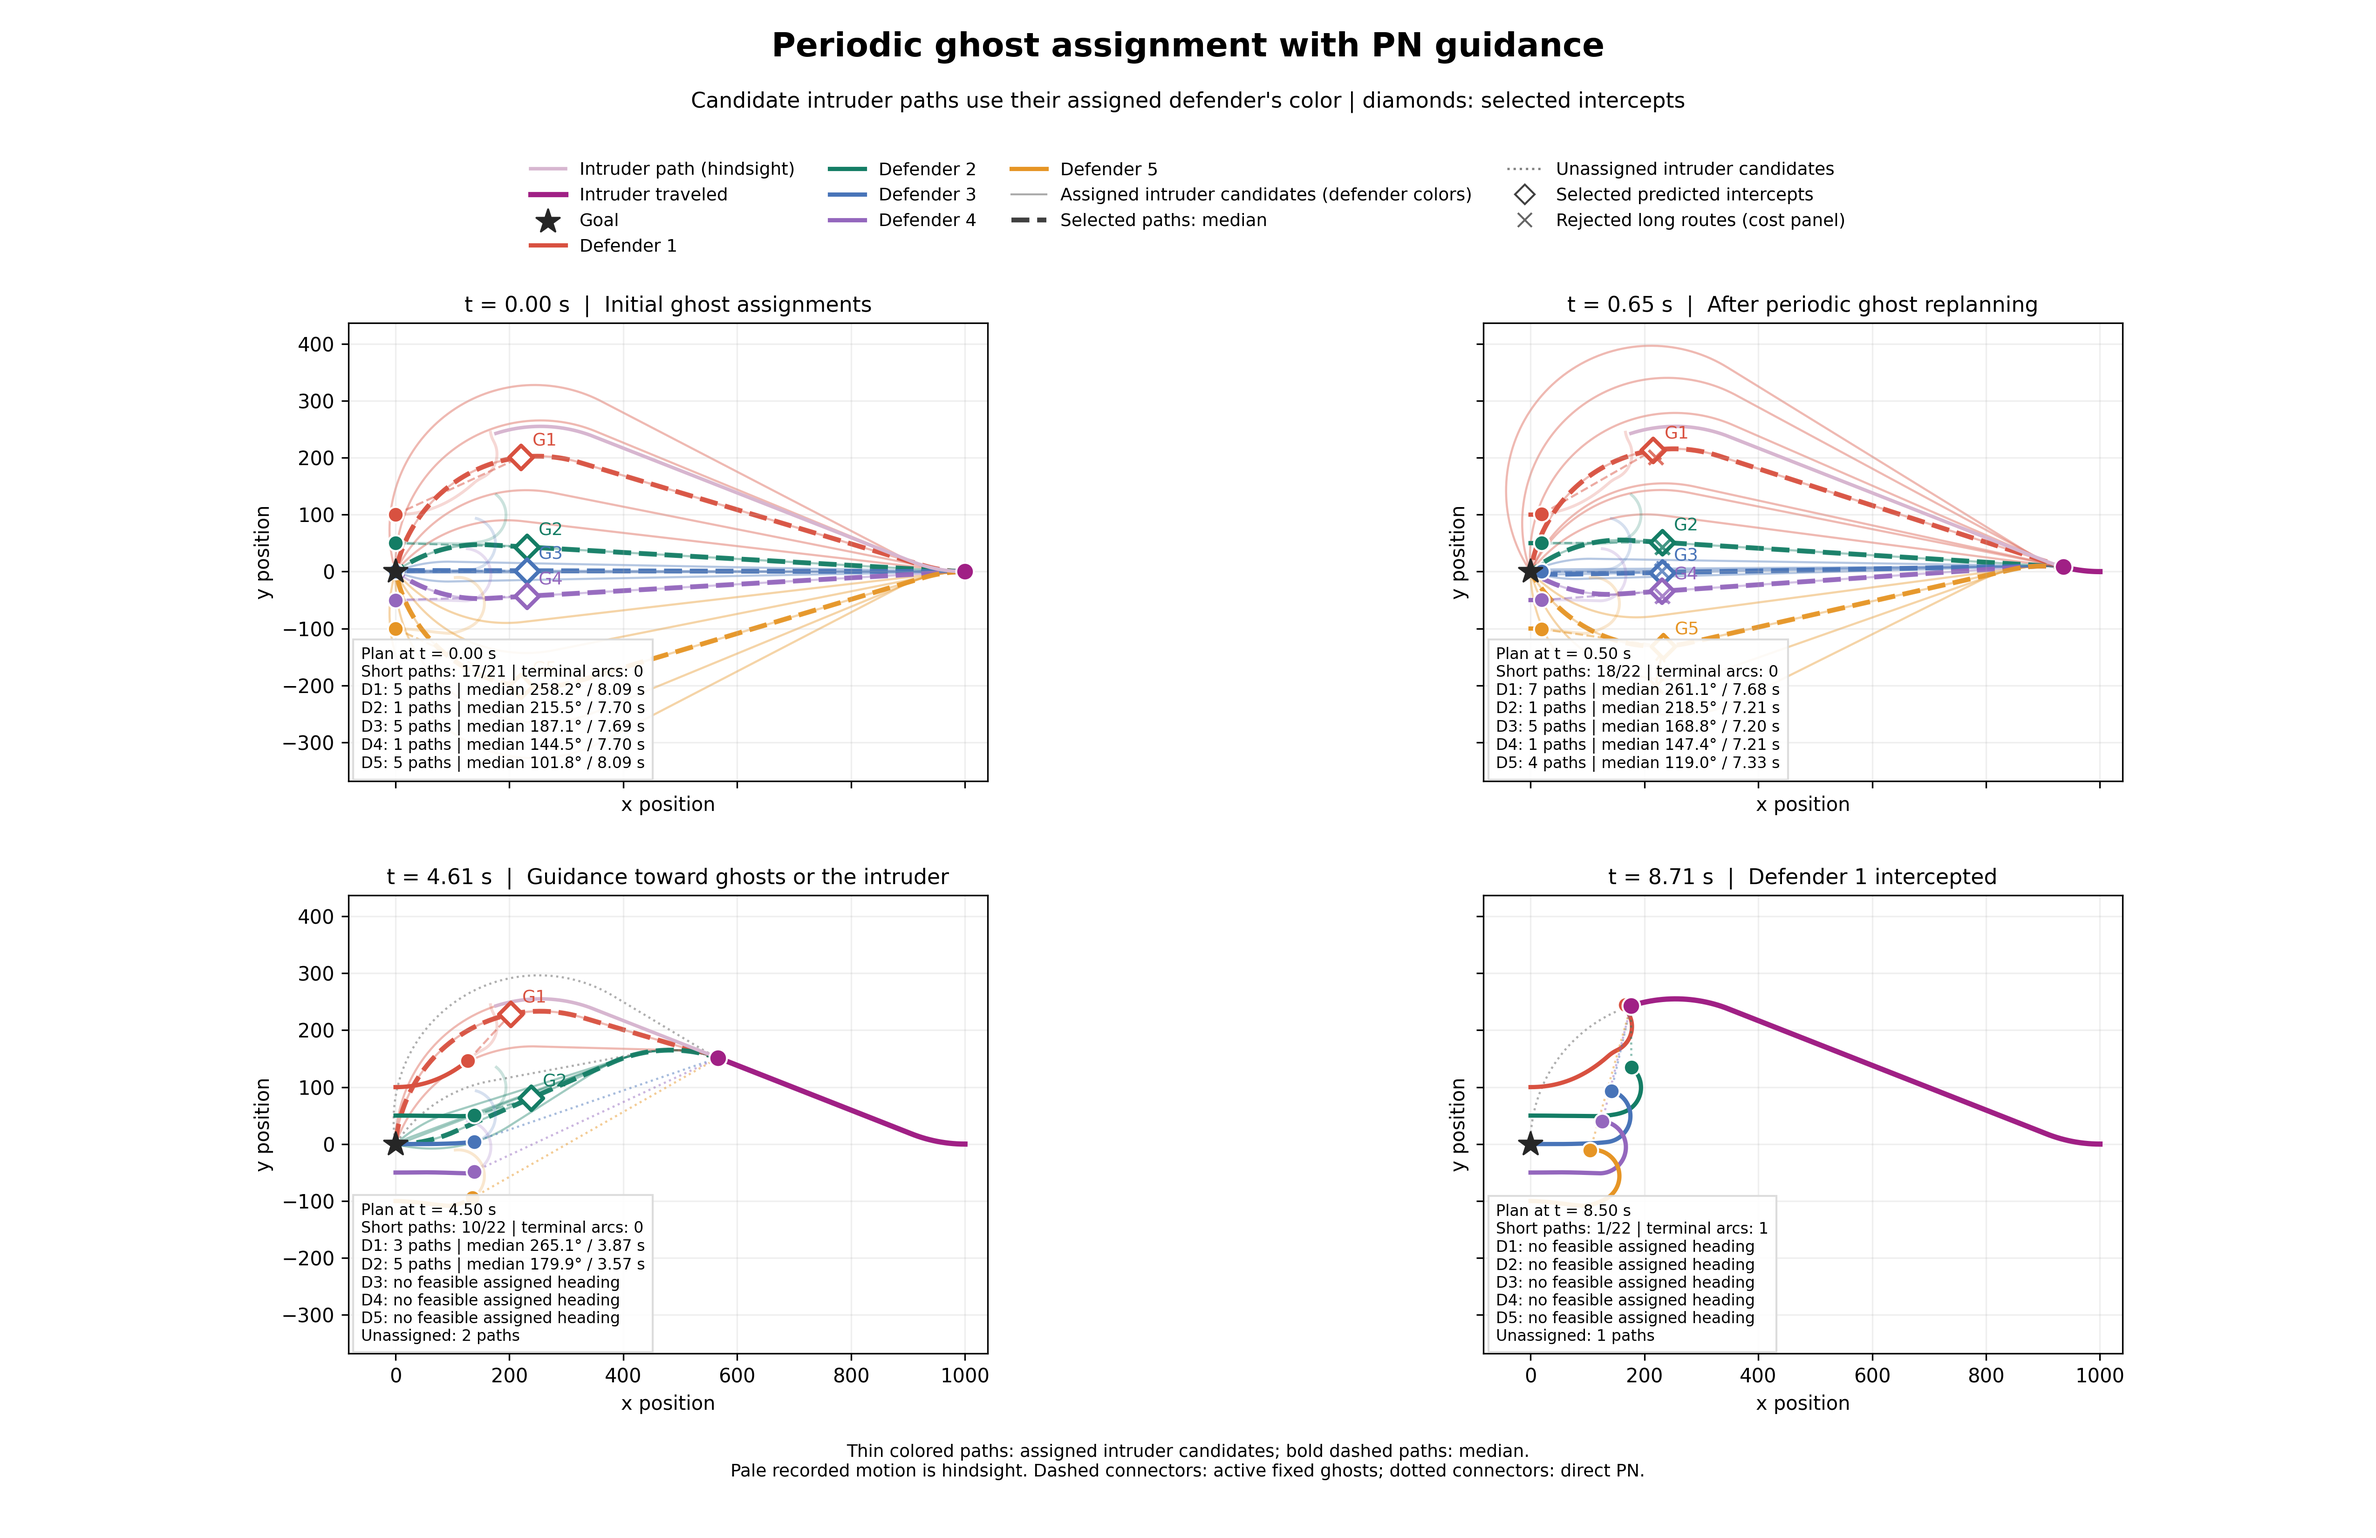
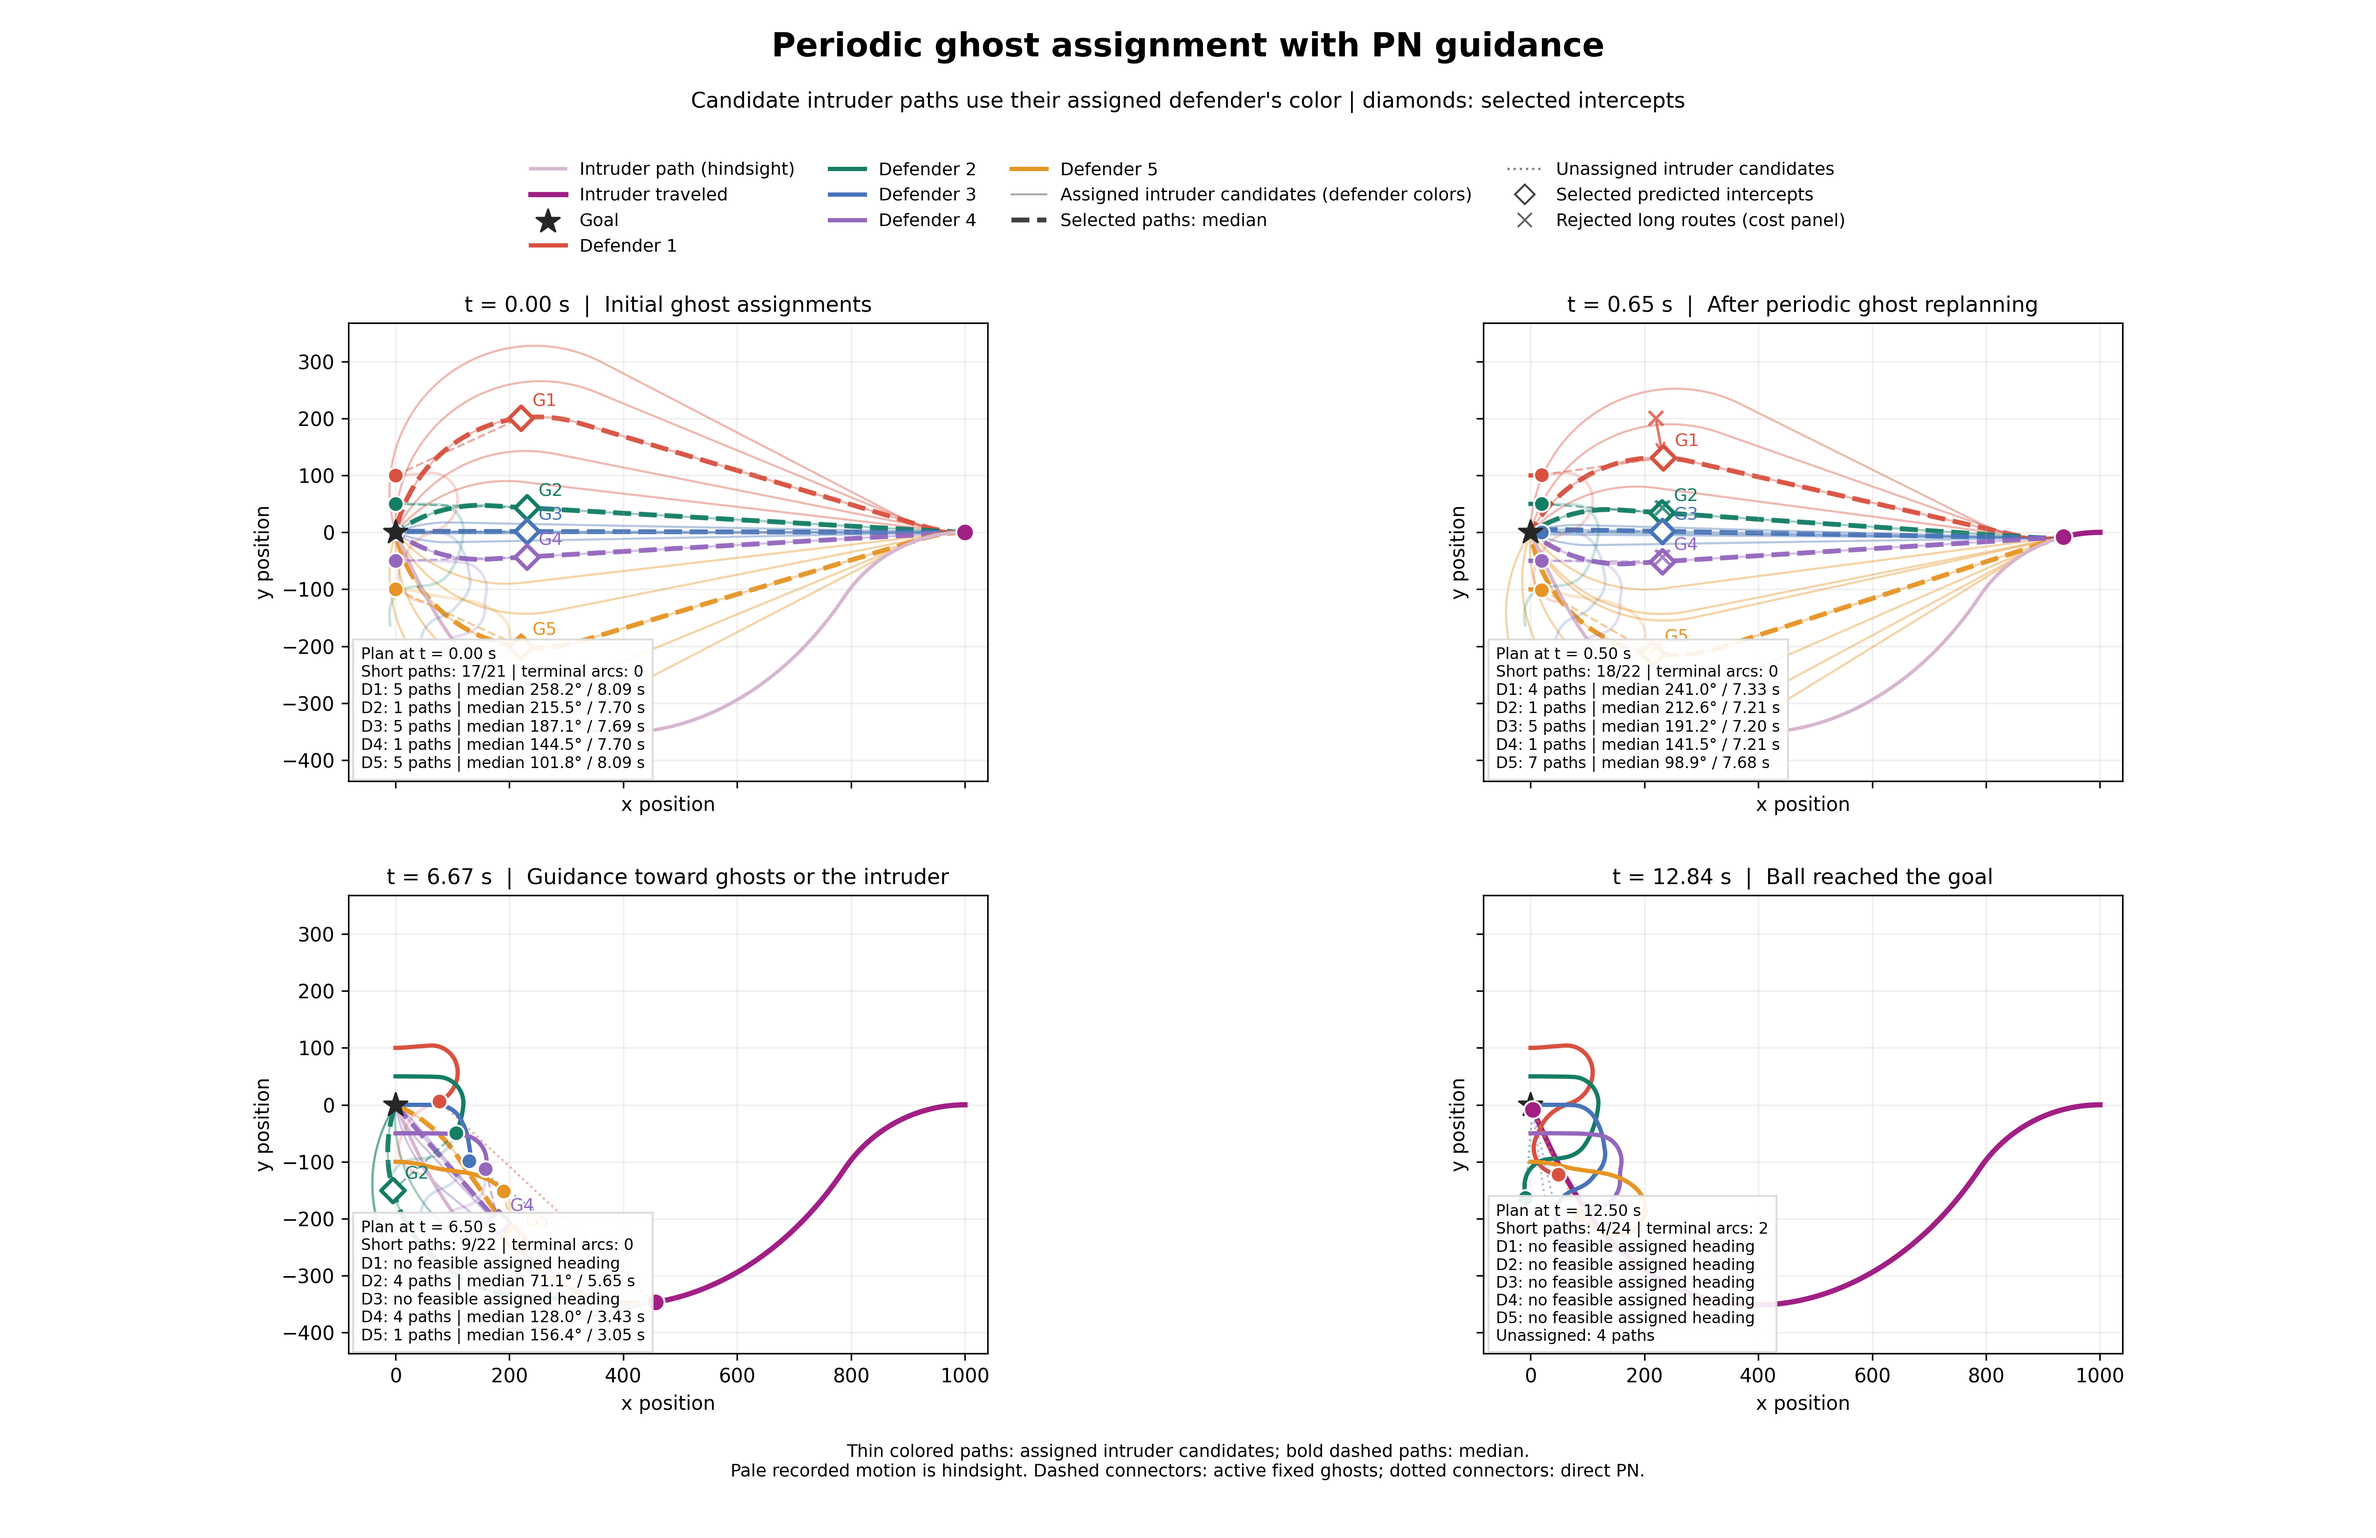
changed the policy

diff --git a/sim_assignment.py b/sim_assignment.py
@@ -329,8 +329,8 @@ if __name__ == "__main__":
     #     # selection_mode="slowest_symmetric")
     #     selection_mode="median")  # Or "median".
 
-    sim(terminal_heading=np.radians(270), ball_policy="dubins", verbose=True,
+    sim(terminal_heading=np.radians(270), ball_policy="max_accel_pronav", verbose=True,
             num_defenders=num_defenders, defender_start=defender_start,
             defender_spacing=defender_spacing,
-            # selection_mode="slowest_symmetric")
+            ball_maneuver_duration=2.5,
             selection_mode="median")  # Or "median".
